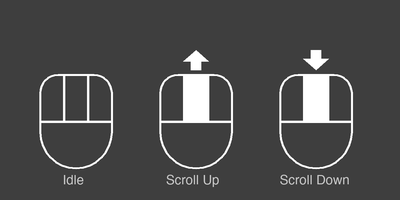
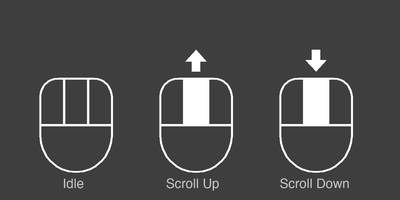
Update: Refine wheel arrow proportions and support trackpad scroll

diff --git a/src/screencast_keys/ops.py b/src/screencast_keys/ops.py
@@ -320,11 +320,12 @@ def draw_wheel_arrow(center_x, bottom_y, w, h, direction, color):
     (center_x, bottom_y) and whose size is (w, h).
     direction: 'UP' or 'DOWN'
     """
-    gap = h * 0.2
-    head_h = h * 0.45
+    # Proportions: gap 0.10w, head 0.16w x 0.29w, shaft 0.14w x 0.115w.
+    gap = h * 0.25
+    head_h = h * 0.40
     shaft_h = h - gap - head_h
-    head_hw = w * 0.18
-    shaft_hw = w * 0.07
+    head_hw = w * 0.145
+    shaft_hw = w * 0.0575
     y0 = bottom_y + gap
     if direction == 'UP':
         shaft_bottom = y0
@@ -635,7 +636,7 @@ class SK_OT_ScreencastKeys(bpy.types.Operator):
     # Height ratio for hold mouse status (against width).
     HEIGHT_RATIO_FOR_MOUSE_HOLD_STATUS = 1.3
     # Height of the mouse wheel scroll arrow, relative to the mouse width.
-    HEIGHT_RATIO_FOR_MOUSE_WHEEL_ARROW = 0.35
+    HEIGHT_RATIO_FOR_MOUSE_WHEEL_ARROW = 0.40
 
     # Margin ratio for hold modifier keys box (against text height).
     MARGIN_RATIO_FOR_MODIFIER_KEYS_BOX = 0.2
@@ -2048,13 +2049,23 @@ class SK_OT_ScreencastKeys(bpy.types.Operator):
         self.update_mouse_buttons_status(event, user_prefs)
 
         # Update mouse wheel scroll.
+        wheel_direction = None
         if event.value == 'PRESS':
             if event.type in ('WHEELUPMOUSE', 'WHEELINMOUSE'):
-                self.mouse_wheel_status['direction'] = 'UP'
-                self.mouse_wheel_status['time'] = current_time
+                wheel_direction = 'UP'
             elif event.type in ('WHEELDOWNMOUSE', 'WHEELOUTMOUSE'):
-                self.mouse_wheel_status['direction'] = 'DOWN'
-                self.mouse_wheel_status['time'] = current_time
+                wheel_direction = 'DOWN'
+        if event.type == 'TRACKPADPAN':
+            # Trackpad / Magic Mouse scroll (e.g. macOS). The pan delta is
+            # the difference between the current and previous position.
+            delta_y = event.mouse_y - event.mouse_prev_y
+            if delta_y > 0:
+                wheel_direction = 'UP'
+            elif delta_y < 0:
+                wheel_direction = 'DOWN'
+        if wheel_direction is not None:
+            self.mouse_wheel_status['direction'] = wheel_direction
+            self.mouse_wheel_status['time'] = current_time
 
         # Update event history.
         if not self.is_ignore_event(event, prefs=prefs) and \
